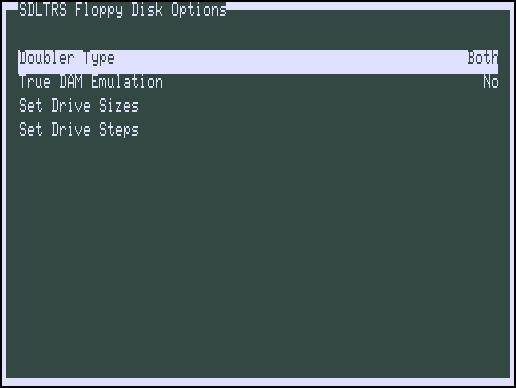
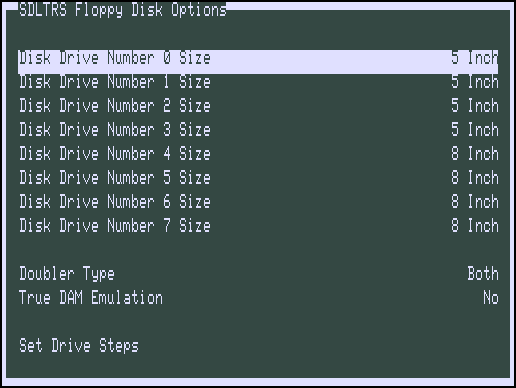
Update documentation and images

diff --git a/html/Features.html b/html/Features.html
@@ -76,11 +76,12 @@ emulator also includes some extensions to the standard hardware, and the
 special drivers, utilities, and instructions needed for these are not
 provided for all operating systems.</p>
 
-<p>The Z80 emulator has a debugger called <b>zbx</b>. You can enter the
-debugger either by starting SDLTRS with the <code>-debug</code> flag or by
-pressing <b>F9</b> or <b>Alt-Z</b> while SDLTRS is running. The debugger runs
-in the command line terminal window that you started SDLTRS from. Once you
-are in the debugger, type <code>help</code> for more information.</p>
+<p>The Z80 emulator has an optional debugger called <b>zbx</b>. If SDLTRS was
+compiled with this feature, you can enter the debugger either by starting
+SDLTRS with the <code>-debug</code> flag or by pressing <b>F9</b> or
+<b>Alt-Z</b> while SDLTRS is running. The debugger runs in the command line
+terminal window that you started SDLTRS from. Once you are in the debugger,
+type <code>help</code> for more information.</p>
 
 <h2><a name="Keys"></a><u>Keys</u></h2>
 
@@ -133,7 +134,7 @@ are in the debugger, type <code>help</code> for more information.</p>
   </tr>
   <tr>
     <td><b>F9</b></td>
-    <td>Enter the debugger (zbx)</td>
+    <td>Enter <b>zbx</b> debugger or toggle fullscreen mode</td>
   </tr>
   <tr>
     <td><b>Shift F9</b></td>
@@ -353,7 +354,7 @@ are in the debugger, type <code>help</code> for more information.</p>
   </tr>
   <tr>
     <td><b>Alt-Z</b></td>
-    <td>Enter the debugger (zbx)</td>
+    <td>Enter <b>zbx</b> debugger or toggle fullscreen mode</td>
   </tr>
 </table>
 

diff --git a/html/TextGUI.html b/html/TextGUI.html
@@ -110,6 +110,9 @@ none, the created image will be mounted on the specified floppy drive.</p>
 
 <p><img alt="" src="images/TextGUIFloppyOptionsMenu.png"></p>
 
+<p>The first eight items allows you to set the size of each disk drive, as
+either a 5" or 8" drive.</p>
+
 <h3>Doubler Type:</h3>
 
 <p>Specify what type of double density adaptor to emulate (Model I mode only).
@@ -126,13 +129,10 @@ strictly observed on both writing and reading. This option is probably not
 useful unless you need to deal with Model I disks that use the distinction as
 part of a copy-protection scheme.</p>
 
-<p>The third menu item allows you to set the size of each disk drive, as
-either a 5" or 8" drive:</p>
+<p><b>Note:</b> only on Linux there is the last menu that allows to set the
+drive steps for real floppys:</p>
 
-<p><img alt="" src="images/TextGUIFloppySizeMenu.png"></p>
-
-<p><b>Note:</b> only on Linux there is the fourth menu that allows to set the
-drive steps for real floppys.</p>
+<p><img alt="" src="images/TextGUIFloppyStepMenu.png"></p>
 
 <h2><a name="Hard_Disk_Management"></a><u>Hard Disk Management</u></h2>
 

diff --git a/html/Options.html b/html/Options.html
@@ -115,7 +115,8 @@ will be executed upon startup of the emulator.</p>
   </tr>
   <tr>
     <td><code>-debug</code></td>
-    <td>Enter zbx, the Z80 debugger, at startup of the emulator.</td>
+    <td>Enter zbx, the Z80 debugger, at startup of the emulator
+        (SDLTRS must be compiled with this feature enabled).</td>
   </tr>
   <tr>
     <td><code>-disk0 filename<br>
